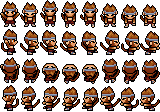
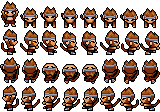
WIP: carrying graphics, remove unused tiles.

diff --git a/app/utils/field.ts b/app/utils/field.ts
@@ -48,9 +48,12 @@ export function rotateDirection(d: Direction, leftRotations: number): Direction 
 };*/
 // New values to match new carrying animations, final y offset is a bit different depending on direction.
 export const carryMap = {
-    'right': [{x: 12, y: -9}, {x: 12, y: -9}, {x: 12, y: -9}, {x: 12, y: -9}, {x: 9, y: -12}, {x: 7, y: -15}, {x: 0, y: -16}],
-    'left': [{x: -12, y: -9}, {x: -12, y: -9}, {x: -12, y: -9}, {x: -12, y: -9}, {x: -9, y: -12}, {x: -7, y: -15}, {x: 0, y: -16}],
-    'down': [{x: 0, y: 3}, {x: 0, y: 3}, {x: 0, y: 3}, {x: 0, y: 3}, {x: 0, y: -3}, {x: 0, y: -7}, {x: 0, y: -13}],
+    'right': [{x: 12, y: -9}, {x: 12, y: -9}, {x: 12, y: -9}, {x: 12, y: -9}, {x: 9, y: -13}, {x: 7, y: -16}, {x: 0, y: -17}],
+    'left': [{x: -12, y: -9}, {x: -12, y: -9}, {x: -12, y: -9}, {x: -12, y: -9}, {x: -9, y: -13}, {x: -7, y: -16}, {x: 0, y: -17}],
+    //'right': [{x: 12, y: -9}, {x: 12, y: -9}, {x: 12, y: -9}, {x: 12, y: -9}, {x: 9, y: -12}, {x: 7, y: -15}, {x: 0, y: -16}],
+    //'left': [{x: -12, y: -9}, {x: -12, y: -9}, {x: -12, y: -9}, {x: -12, y: -9}, {x: -9, y: -12}, {x: -7, y: -15}, {x: 0, y: -16}],
+    'down': [{x: 0, y: 3}, {x: 0, y: 3}, {x: 0, y: 3}, {x: 0, y: 3}, {x: 0, y: -4}, {x: 0, y: -9}, {x: 0, y: -17}],
+    //'down': [{x: 0, y: 3}, {x: 0, y: 3}, {x: 0, y: 3}, {x: 0, y: 3}, {x: 0, y: -3}, {x: 0, y: -7}, {x: 0, y: -13}],
     'up': [{x: 0, y: -15}, {x: 0, y: -15}, {x: 0, y: -15}, {x: 0, y: -15}, {x: 0, y: -16}, {x: 0, y: -17}, {x: 0, y: -17}],
 };
 
